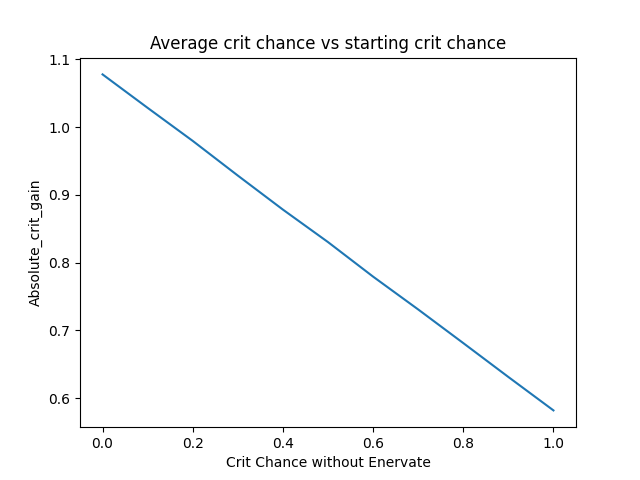
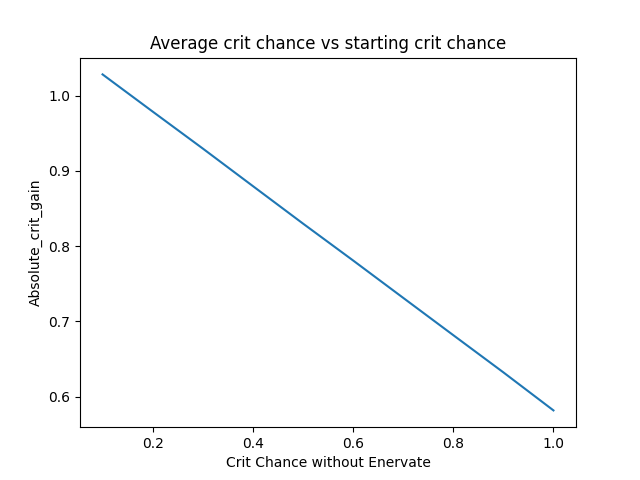
removed 0 crit chance case

diff --git a/functions.py b/functions.py
@@ -1,5 +1,6 @@
 import random
 import matplotlib.pyplot as plt
+import numpy as np
 
 
 
@@ -11,8 +12,11 @@ def plotting(list_1, list_2, name):
     plt.xlabel('Crit Chance without Enervate')
     plt.ylabel(name)
     plt.title('Average crit chance vs starting crit chance')
+
+    # Save and clear the plot
     plt.savefig('./data/' + name + '.png')
     plt.clf()
+
 
 def run_shooting(starting_crit_chance, crit_chance_per_hit, sample_size, logfile):
     # starting crit chance

diff --git a/main.py b/main.py
@@ -19,7 +19,7 @@ def main():
     # sample size
     sample_size = 100000
     # starting crit chance
-    starting_crit_chance_list = [0.0, 0.1, 0.2, 0.3, 0.4, 0.5, 0.6, 0.7, 0.8, 0.9, 1.0]
+    starting_crit_chance_list = [0.1, 0.2, 0.3, 0.4, 0.5, 0.6, 0.7, 0.8, 0.9, 1.0]
     # crit chance per hit
     crit_chance_per_hit = 0.1
     # storage for average crit chance
